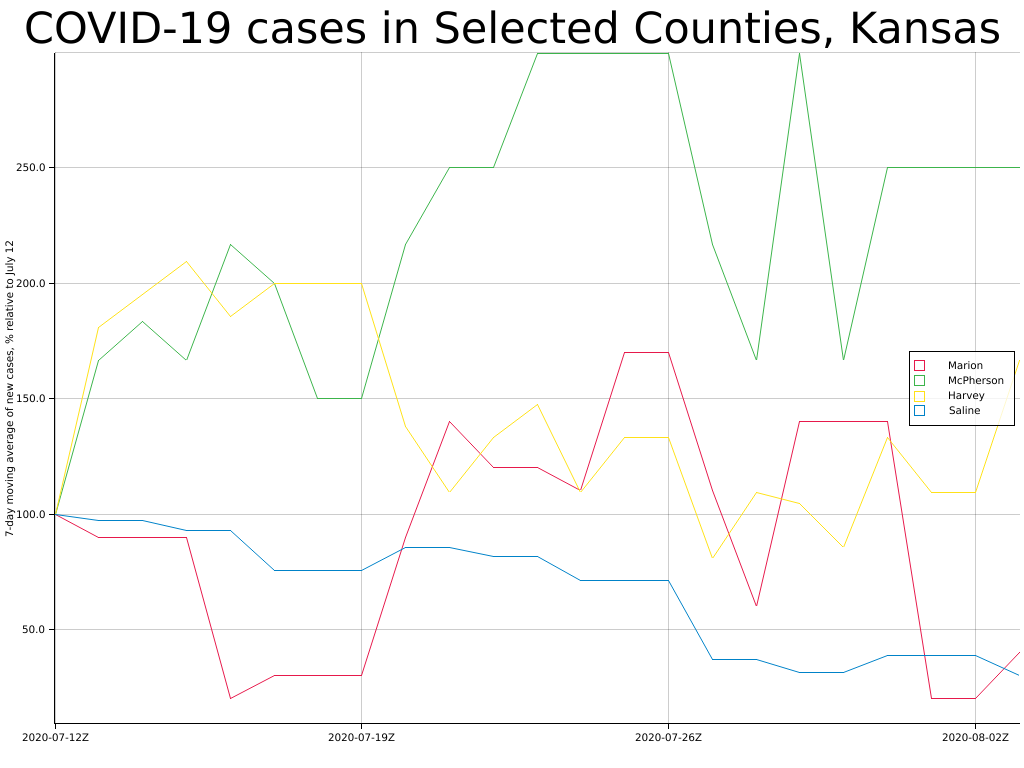
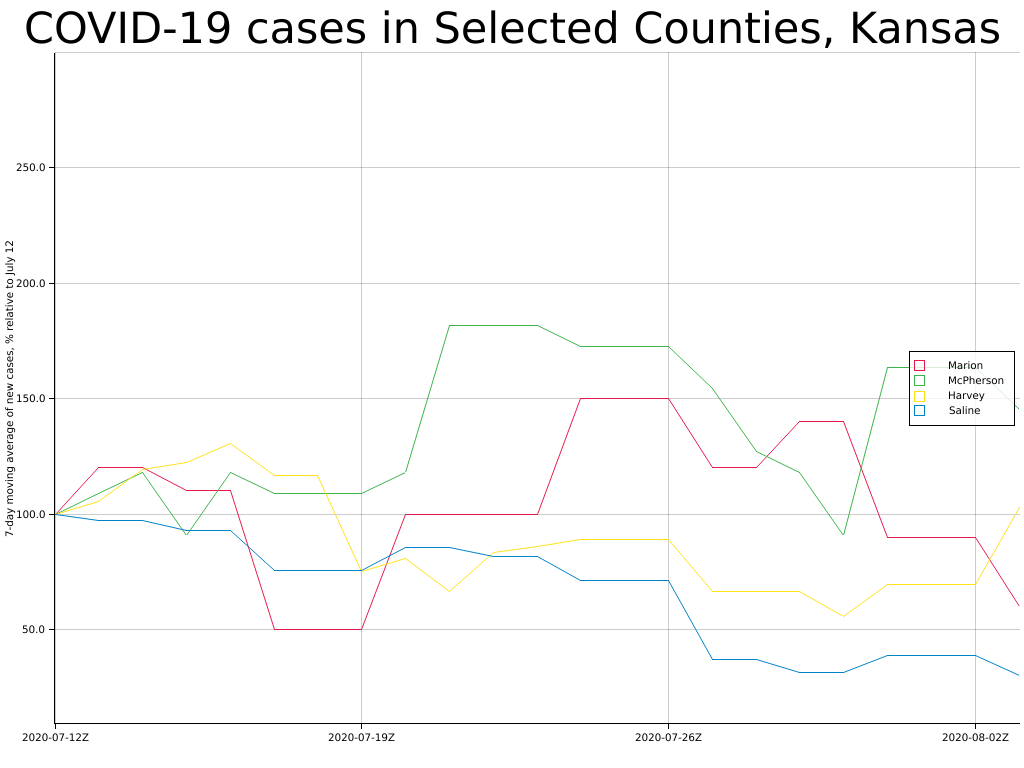
updates

diff --git a/src/db.rs b/src/db.rs
@@ -44,16 +44,16 @@ impl<'a> DB<'a> {
     }
 }
 
-pub fn makemasksstr(dataset: &str, field: &str, masks: bool, counties: &Counties<'_>) -> String {
+pub fn makemasksstr(dataset: &str, mainfield: &str, masks: bool, counties: &Counties<'_>) -> String {
     format!("SELECT date_julian, SUM({}) FROM cdataset
             WHERE dataset = '{}' AND province = 'Kansas'
                   AND date_julian >= ? AND date_julian <= ? AND administrative {} IN {}
             GROUP BY date_julian ORDER BY date_julian",
-            field, dataset, if masks { "" } else { "not" },
+            mainfield, dataset, if masks { "" } else { "not" },
             counties.sqlclause().as_str())
 }
 
-/// Read in the summarized data for mask or no-mask counties, returning a HashMap from date_julian to delta_confirmed
+/// Read in the summarized data for mask or no-mask counties, returning a HashMap from date_julian to given field
 pub async fn getmaskdata(pool: &sqlx::SqlitePool, dataset: &str, field: &str, masks: bool, counties: &Counties<'_>, first_date: i32, last_date: i32) -> HashMap<i32, f64> {
     let query = makemasksstr(dataset, field, masks, counties);
     println!("{}", query);
@@ -64,4 +64,25 @@ pub async fn getmaskdata(pool: &sqlx::SqlitePool, dataset: &str, field: &str, ma
         await.unwrap()
              .into_iter().map(|(x, y)| (x, y as f64))
              .collect()
+}
+
+/// Read in the summarized data per-county, returning a HashMap of counties to a HashMap from date_julian to given field
+pub async fn getcountymaskdata(pool: &sqlx::SqlitePool, dataset: &str, field: &str,
+                         first_date: i32, last_date: i32) -> HashMap<String, HashMap<i32, f64>> {
+
+    let query = format!("SELECT administrative, date_julian, SUM({}) FROM cdataset
+            WHERE dataset = '{}' AND province = 'Kansas'
+                  AND date_julian >= ? AND date_julian <= ?  AND administrative IS NOT NULL
+            GROUP BY date_julian, administrative ORDER BY administrative, date_julian",
+            field, dataset);
+    let mut hm = HashMap::new();
+    println!("{}", query);
+        sqlx::query_as::<_, (String, i32, i64)>(query.as_str())
+        .bind(first_date)
+        .bind(last_date)
+        .fetch_all(pool).
+        await.unwrap()
+             .into_iter().for_each(|(county, x, y)|
+                                   { hm.entry(county).or_insert(HashMap::new()).insert(x, y as f64); } );
+    hm
 }

diff --git a/src/charts.rs b/src/charts.rs
@@ -101,29 +101,38 @@ pub fn write<T: Clone + RangeBounds<i32> + IntoIterator<Item = i32>>(
         .unwrap();
 }
 
-/*
-pub fn writecounties<F>(
+pub fn writecounties<T: Clone + RangeBounds<i32> + IntoIterator<Item = i32>>(
     filename: &str,
-    func: F,
     title: &str,
     yaxis: &str,
     ymin: f64,
     ymax: f64,
     counties: &Vec<&str>,
-    bycounty: &HashMap<String, HashMap<NaiveDate, ARecord>>,
-    datelist: &Vec<NaiveDate>,
-) where
-    F: Fn(&ARecord) -> f64,
+    bycounty: &HashMap<String, HashMap<i32, f64>>,
+    datelist: &T,
+)
 {
+    let firstdate = match datelist.start_bound() {
+        Bound::Included(t) => *t,
+        Bound::Excluded(t) => *t + 1,
+        Bound::Unbounded => panic!("Unbounded date range not supported"),
+    };
+    let lastdate = match datelist.end_bound() {
+        Bound::Included(t) => *t,
+        Bound::Excluded(t) => *t - 1,
+        Bound::Unbounded => panic!("Unbounded date range not supported"),
+    };
+
     let root = BitMapBackend::new(filename, (1024, 768)).into_drawing_area();
     root.fill(&WHITE).unwrap();
 
+    // FIXME: the .. below should be ..=
     let mut chart = ChartBuilder::on(&root)
         .x_label_area_size(40)
         .y_label_area_size(50)
         .margin(5)
         .caption(title, ("sans-serif", 50.0).into_font())
-        .build_ranged(n2d(&datelist[0])..n2d(datelist.last().unwrap()), ymin..ymax)
+        .build_ranged(day_to_dateutc(firstdate)..day_to_dateutc(lastdate), ymin..ymax)
         .unwrap();
 
     chart
@@ -137,13 +146,14 @@ pub fn writecounties<F>(
 
     for county in counties {
         let data = bycounty.get(&String::from(*county)).unwrap();
-        let day0 = func(data.get(&datelist[0]).unwrap());
+        let day0 = data.get(&firstdate).expect("Can't find first value");
 
         chart
             .draw_series(LineSeries::new(
-                datelist
-                    .iter()
-                    .map(|d| (n2d(d), 100f64 * func(data.get(d).unwrap()) / day0)),
+                datelist.clone()
+                    .into_iter()
+                    .filter_map(|d| data.get(&d).map(|x| (d, x)))
+                    .map(|(x, y)| (day_to_dateutc(x), 100f64 * y / day0)),
                 &Palette99::pick(idx),
             ))
             .unwrap()
@@ -161,4 +171,3 @@ pub fn writecounties<F>(
         .draw()
         .unwrap();
 }
-*/

diff --git a/src/main.rs b/src/main.rs
@@ -192,50 +192,55 @@ async fn main() {
         &jhunomasks,
         &daterange_updated,
     );
-    /*
+
+    /////////////////// Counties
+
+    let mut nytbycounty = db::getcountymaskdata(&pool, "nytimes/us-counties", "delta_confirmed", data_first_date, data_last_date).await;
+    for item in nytbycounty.values_mut() {
+        analysis::calcsimplema(item, 7);
+    }
+    let mut jhubycounty = db::getcountymaskdata(&pool, "nytimes/us-counties", "delta_confirmed", data_first_date, data_last_date).await;
+    for item in jhubycounty.values_mut() {
+        analysis::calcsimplema(item, 7);
+    }
     charts::writecounties(
         "counties.png",
-        arecord::ARecord::getnewcaseavg,
         "COVID-19 cases in Selected Counties, Kansas",
         "7-day moving average of new cases, % relative to July 12",
         20f64,
         200f64,
         &vec!["Marion", "McPherson", "Harvey", "Saline"],
         &nytbycounty,
-        &datelist_output,
+        &daterange_output,
     );
     charts::writecounties(
         "images/counties-jhu.png",
-        arecord::ARecord::getnewcaseavg,
         "COVID-19 cases in Selected Counties, Kansas",
         "7-day moving average of new cases, % relative to July 12",
         10f64,
         300f64,
         &vec!["Marion", "McPherson", "Harvey", "Saline"],
         &jhubycounty,
-        &datelist_output,
+        &daterange_output,
     );
     charts::writecounties(
         "images/counties-updated-nyt.png",
-        arecord::ARecord::getnewcaseavg,
         "COVID-19 cases in Selected Counties, Kansas",
         "7-day moving average of new cases, % relative to July 12",
         20f64,
         200f64,
         &vec!["Marion", "McPherson", "Harvey", "Saline"],
         &nytbycounty,
-        &datelist_updated,
+        &daterange_updated,
     );
     charts::writecounties(
         "images/counties-updated-jhu.png",
-        arecord::ARecord::getnewcaseavg,
         "COVID-19 cases in Selected Counties, Kansas",
         "7-day moving average of new cases, % relative to July 12",
         0f64,
         400f64,
         &vec!["Marion", "McPherson", "Harvey", "Saline"],
         &jhubycounty,
-        &datelist_updated,
+        &daterange_updated,
     );
-    */
 }
